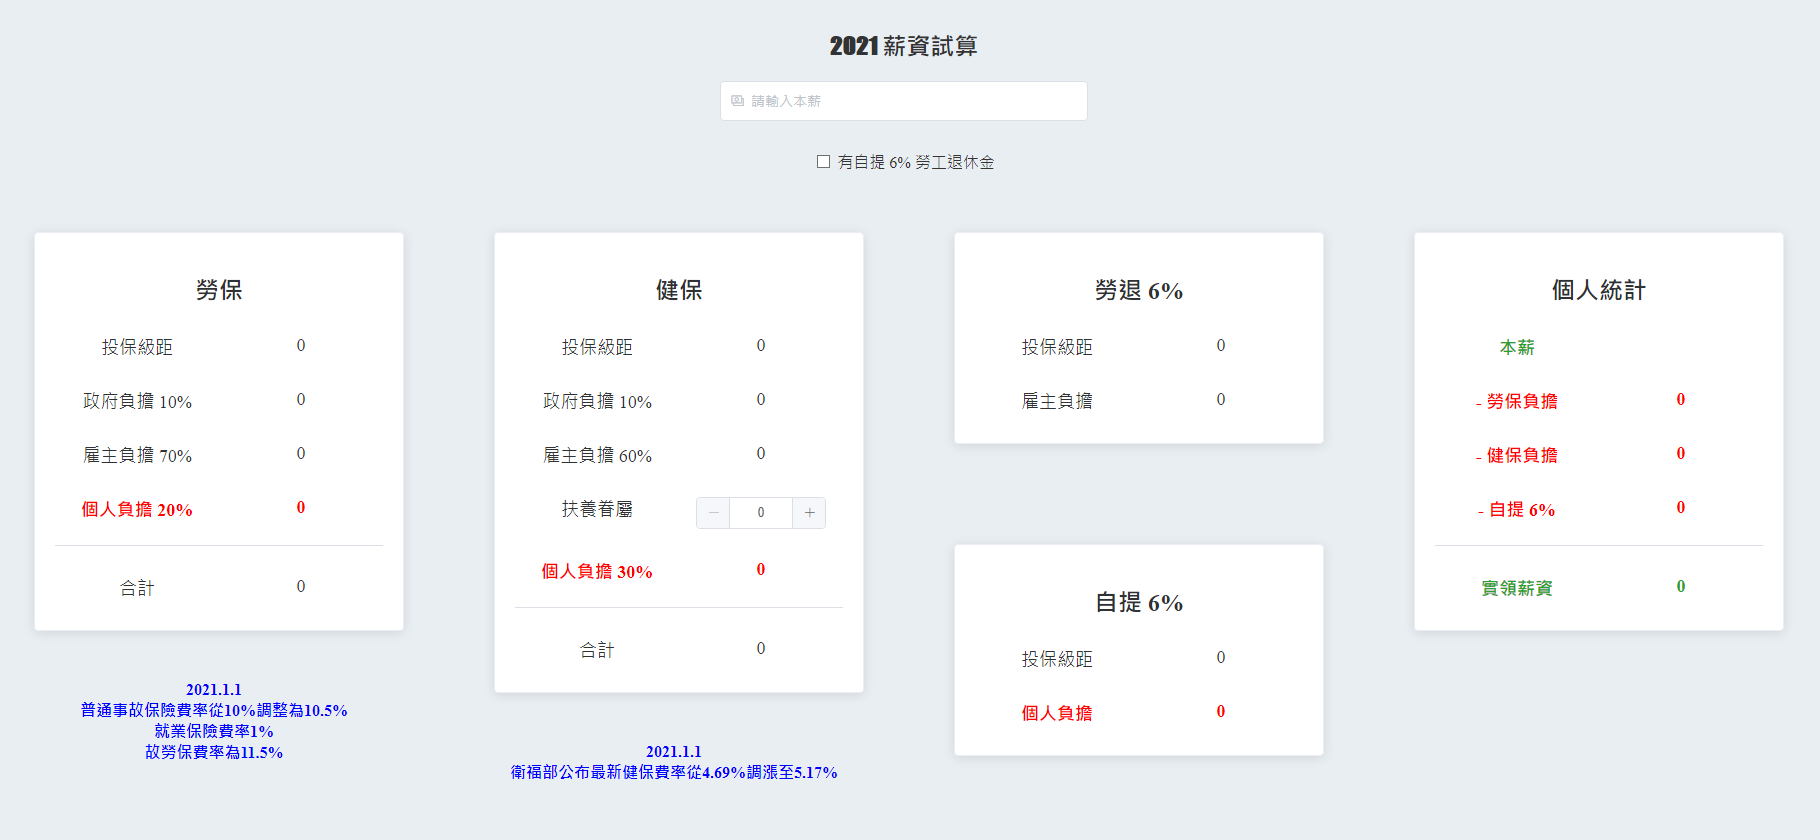
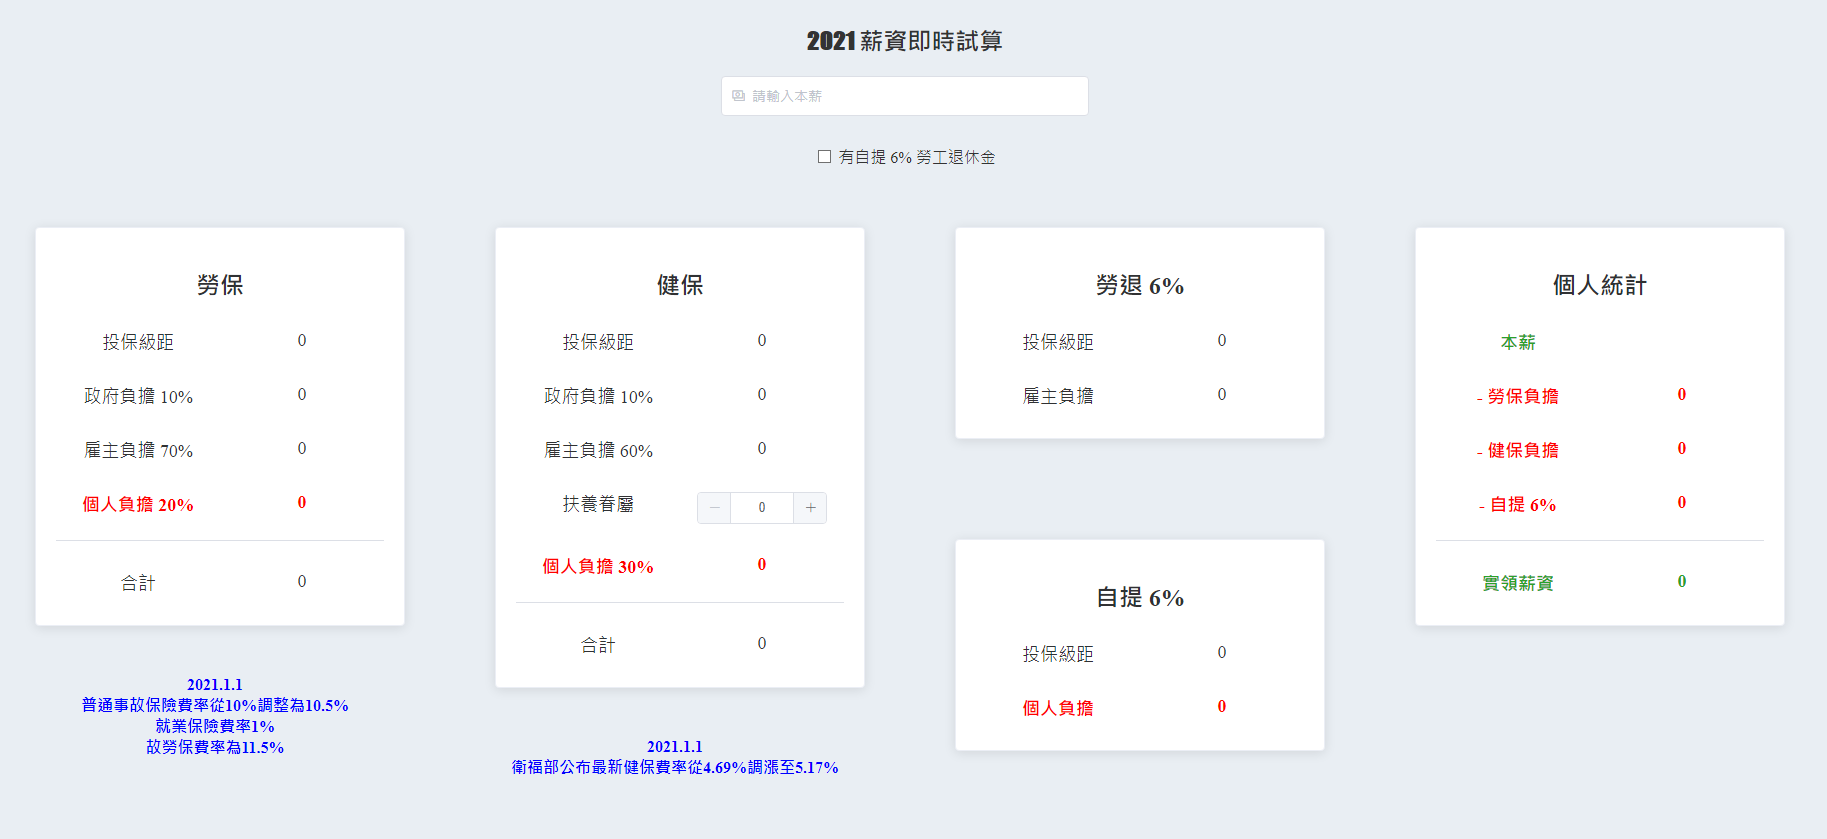
add conversion table function

diff --git a/src/components/ConversionTable.vue b/src/components/ConversionTable.vue
@@ -1,0 +1,125 @@
+<template>
+  <div class="healthGrading" align="center">
+    <h1>
+      <span style="font-family: fantasy">2021 </span>
+      <span style="font-family: Microsoft JhengHei">勞健保及勞退費用對照表</span>
+    </h1>
+    <!--Card-->
+    <el-card style="width: 80%">
+      <el-row>
+        <!--Table-->
+        <!-- <el-table :data="infolist" style="width: 100%" border stripe :header-cell-style="{background:'#5CADAD',color:'#FFFFFF'}"> -->
+        <el-table :data="infolist" size="mini" highlight-current-row="true" style="width: 100%;font-size: 15px;" border stripe :header-cell-style="tableHeaderColor">
+          <el-table-column prop="Level" label="等級" align="center"></el-table-column>
+          <el-table-column prop="InsuredSalaryLevel" label="投保級距" align="center"></el-table-column>
+          <el-table-column label="勞保" align="center">
+            <el-table-column label="個人" align="center">
+              <el-table-column prop="personalAccident" label="普通事故保險費率" align="center"></el-table-column>
+              <el-table-column prop="personalEmployment" label="就業保險費率" align="center"></el-table-column>
+              <el-table-column prop="personalTotal" label="合計" align="center"></el-table-column>
+            </el-table-column>
+            <el-table-column label="雇主" align="center">
+              <el-table-column prop="hirerAccident" label="普通事故保險費率" align="center"></el-table-column>
+              <el-table-column prop="hirerEmployment" label="就業保險費率" align="center"></el-table-column>
+              <el-table-column prop="hirerTotal" label="合計" align="center"></el-table-column>
+            </el-table-column>
+          </el-table-column>
+          <el-table-column label="健保" align="center">
+            <el-table-column prop="healthPersonal" label="個人" align="center"></el-table-column>
+            <el-table-column prop="healthHirer" label="雇主" align="center"></el-table-column>
+          </el-table-column>
+          <el-table-column prop="WorkOut" label="勞退" align="center"></el-table-column>
+          <el-table-column prop="comment" label="備註" align="center" style="color:red"></el-table-column>
+        </el-table>
+      </el-row>
+    </el-card>
+  </div>
+</template>
+
+<script>
+export default {
+  data () {
+    return {
+      infolist: [],
+      workoutCount: 0,
+      laborCount: 0
+    }
+  },
+  created () {
+    this.getWorkOutLength()
+    this.getLaborLength()
+    this.getInfo()
+  },
+  methods: {
+    tableHeaderColor () {
+      return 'background-color: #7D95B9;color: #FFFFFF;'
+    },
+    async getWorkOutLength () {
+      const { data: workOutInfo } = await this.$http.get('static/labor-workout.json').catch(() => {
+        return this.$message.error('資料取得失敗')
+      })
+
+      this.workoutCount = workOutInfo.length
+    },
+    async getLaborLength () {
+      const { data: laborInfo } = await this.$http.get('static/labor-normal.json').catch(() => {
+        return this.$message.error('資料取得失敗')
+      })
+
+      this.laborCount = laborInfo.length
+    },
+    async getInfo () {
+      const { data: info } = await this.$http.get('static/health-grading.json').catch(() => {
+        return this.$message.error('資料取得失敗')
+      })
+
+      this.infolist = info
+
+      // 健保
+      var index = 0
+      for (index = 0; index < info.length; index++) {
+        // 個人
+        this.infolist[index].healthPersonal = Math.round(info[index].InsuredSalaryLevel * (5.17 / 100) * 0.3)
+        // 雇主
+        this.infolist[index].healthHirer = Math.round(info[index].InsuredSalaryLevel * (5.17 / 100) * (60 / 100) * (1 + 0.58))
+      }
+
+      // 勞保
+      for (index = 0; index < info.length; index++) {
+        if (index >= this.laborCount) {
+          // 個人
+          this.infolist[index].personalAccident = '-'
+          this.infolist[index].personalEmployment = '-'
+          this.infolist[index].personalTotal = '-'
+          // 雇主
+          this.infolist[index].hirerAccident = '-'
+          this.infolist[index].hirerEmployment = '-'
+          this.infolist[index].hirerTotal = '-'
+        } else {
+          // 個人
+          this.infolist[index].personalAccident = Math.round(info[index].InsuredSalaryLevel * (10.5 / 100) * (20 / 100))
+          this.infolist[index].personalEmployment = Math.round(info[index].InsuredSalaryLevel * (1 / 100) * (20 / 100))
+          this.infolist[index].personalTotal = Math.round(info[index].InsuredSalaryLevel * (11.5 / 100) * (20 / 100))
+          // 雇主
+          this.infolist[index].hirerAccident = Math.round(info[index].InsuredSalaryLevel * (10.5 / 100) * (70 / 100))
+          this.infolist[index].hirerEmployment = Math.round(info[index].InsuredSalaryLevel * (1 / 100) * (70 / 100))
+          this.infolist[index].hirerTotal = Math.round(info[index].InsuredSalaryLevel * (11.5 / 100) * (70 / 100))
+        }
+      }
+
+      // 勞退
+      for (index = 0; index < info.length; index++) {
+        if (index >= this.workoutCount) {
+          this.infolist[index].WorkOut = '-'
+        } else {
+          this.infolist[index].WorkOut = Math.round(info[index].InsuredSalaryLevel * (6 / 100))
+        }
+      }
+
+      this.infolist[this.workoutCount - 1].comment = '勞退最高級距'
+      this.infolist[info.length - 1].comment = '健保最高級距'
+      this.infolist[this.laborCount - 1].comment = '勞保最高級距'
+    }
+  }
+}
+</script>

diff --git a/src/components/HealthGrading.vue b/src/components/HealthGrading.vue
@@ -10,7 +10,7 @@
       <el-row>
         <!--Table-->
         <!-- <el-table :data="infolist" style="width: 100%" border stripe :header-cell-style="{background:'#5CADAD',color:'#FFFFFF'}"> -->
-        <el-table :data="infolist" style="width: 80%;font-size: 15px;" border stripe :header-cell-style="tableHeaderColor">
+        <el-table :data="infolist" highlight-current-row="true" style="width: 80%;font-size: 15px;" border stripe :header-cell-style="tableHeaderColor">
           <el-table-column prop="Distance" label="組別級距" align="center"></el-table-column>
           <el-table-column prop="Level" label="投保等級" align="center"></el-table-column>
           <el-table-column prop="InsuredSalaryLevel" label="月投保金額（元）" align="center"></el-table-column>

diff --git a/src/components/LaborGrading.vue b/src/components/LaborGrading.vue
@@ -18,7 +18,7 @@
       <el-row>
         <!--Table-->
         <!-- <el-table :data="infolist" style="width: 100%" border stripe :header-cell-style="{background:'#5CADAD',color:'#FFFFFF'}"> -->
-        <el-table :data="infolist" style="width: 80%;font-size: 15px;" border stripe :header-cell-style="tableHeaderColor">
+        <el-table :data="infolist" style="width: 80%;font-size: 15px;" highlight-current-row="true" border stripe :header-cell-style="tableHeaderColor">
           <el-table-column prop="Identity" label="身分別" align="center"></el-table-column>
           <el-table-column prop="Level" label="投保薪資等級" align="center"></el-table-column>
           <el-table-column prop="SalaryRange" label="月薪資總額" align="center"></el-table-column>

diff --git a/src/router/index.js b/src/router/index.js
@@ -5,6 +5,7 @@ import Main from '@/components/Main.vue'
 import LaborGrading from '@/components/LaborGrading.vue'
 import HealthGrading from '@/components/HealthGrading.vue'
 import Calculation from '@/components/Calculation.vue'
+import ConversionTable from '@/components/ConversionTable.vue'
 
 // 導入全域樣式
 import '../assets/css/global.css'
@@ -25,7 +26,8 @@ const routes = [
       { path: '/Main', component: Main },
       { path: '/LaborGrading', component: LaborGrading },
       { path: '/HealthGrading', component: HealthGrading },
-      { path: '/Calculation', component: Calculation }
+      { path: '/Calculation', component: Calculation },
+      { path: '/ConversionTable', component: ConversionTable }
     ]
   }
 ]

diff --git a/src/components/Home.vue b/src/components/Home.vue
@@ -29,14 +29,8 @@
               >
             </el-menu-item>
           </el-submenu>
-          <el-menu-item index="/Calculation">薪資試算</el-menu-item>
-          <!-- <el-menu-item index="2">处理中心</el-menu-item>
-        <el-menu-item index="3" disabled>消息中心</el-menu-item>
-        <el-menu-item index="4"
-          ><a href="https://www.ele.me" target="_blank"
-            >订单管理</a
-          ></el-menu-item
-        > -->
+          <el-menu-item index="/Calculation">薪資即時試算</el-menu-item>
+          <el-menu-item index="/ConversionTable">勞健保及勞退費用對照表</el-menu-item>
         </el-menu>
       </div>
     </el-header>

diff --git a/src/components/Calculation.vue b/src/components/Calculation.vue
@@ -3,7 +3,7 @@
     <!--Header-->
     <h1>
       <span style="font-family: fantasy">2021 </span>
-      <span style="font-family: Microsoft JhengHei">薪資試算</span>
+      <span style="font-family: Microsoft JhengHei">薪資即時試算</span>
     </h1>
     <el-input
       v-model="input"

diff --git a/README.md b/README.md
@@ -7,7 +7,8 @@
 | 2021/07/14 | Init |
 | 2021/07/14 | Add Page - 2021 勞保投保薪資分級表 |
 | 2021/07/15 | Add Page - 2021 全民健康保險投保金額分級表 |
-| 2021/07/16 | Add Page - 2021 薪資試算 |
+| 2021/07/16 | Add Page - 2021 薪資即時試算 |
+| 2021/07/17 | Add Page - 2021 勞健保及勞退費用對照表 |
 
 ## Product
 [Labor Health Insurance](https://fakestandard.github.io/labor-health-insurance/#/)
@@ -16,8 +17,10 @@
 ![Demo1](src/assets/Demo1.png)
 ### 2021 全民健康保險投保金額分級表
 ![Demo2](src/assets/Demo2.png)
-### 2021 薪資試算
+### 2021 薪資即時試算
 ![Demo3](src/assets/Demo3.png)
+### 2021 勞健保及勞退費用對照表
+![Demo3](src/assets/Demo4.png)
 
 ### Open Data
 [勞保投保薪資分級表](https://data.gov.tw/dataset/6258)
